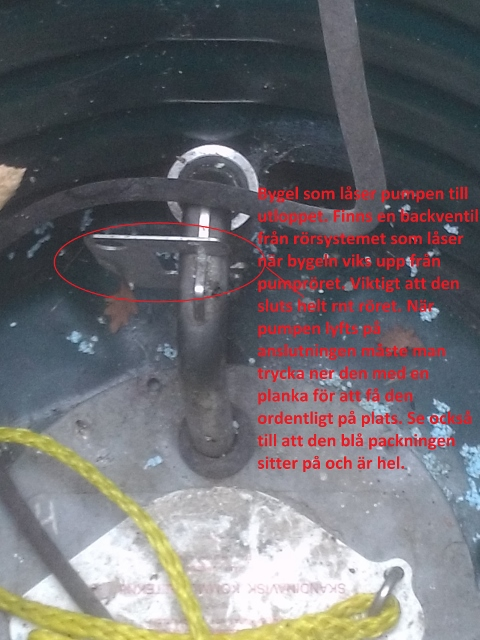
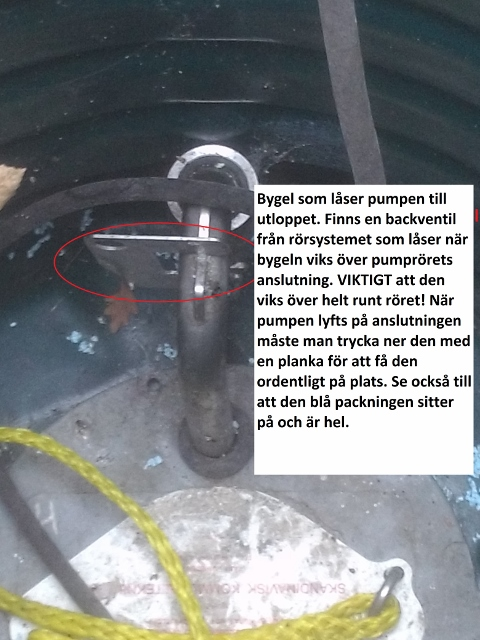
16

Changed region(s): [[0.5312, 0.2812, 1.0, 0.75]]

diff --git a/pages/Maint/Paint.html b/pages/Maint/Paint.html
@@ -5,24 +5,125 @@
         <title>Målarfärg till husen</title>
     </head>
     <body>
-        <h2>Färg</h2>
-        <h3>Gamla huset</h3>
-            <dl>
-                <dt>Fasad</dt>
-                    <dd>Svart lasyr, Nordsjö Tinova V+</dd>
-                    <dd>Billigare i Åtvidaberg än Linköping</dd>
-                <dt>Fönster och snickerier</dt>
-                    <dd>...</dd>
-                <dt>Vägg kök</dt>
-                    <dd></dd>
-                <dt>Golv kök</dt>
-                    <dd>Ska målas om. Förslut kvistarna med lack denna gång</dd>
-                    <dd></dd>
-                <dt>Övervåning</dt>
-                    <dd>Tak och väggar förmodligen oljefärg. Målat slutet 70-talet</dd>
-                <dt>Golv matsal</dt>
-                    <dd>Slipat, betsat och lackat i början av 2000-talet.</dd>
-           </dl>
-        
+        <h2>Färg</h2>    
+        <table border="1">
+            <thead>
+                <tr>
+                    <th colspan=5>Gamla huset</th>
+                </tr>
+                <tr>
+                    <th>Detalj</h>
+                    <th>Typ och färg</th>
+                    <th>Behandling</th>
+                    <th>Fabrikat</th>
+                    <th>Inköpsställe</th>
+                </tr>
+            </thead>
+            <tbody>
+                <tr>
+                    <td>Fasad</td>
+                    <td>Svart lasyr</td>
+                    <td></td>
+                    <td>Nordsjö Tinova V+</td>
+                    <td>Billigare i Åtvidaberg än Linköping</td>
+                </tr>
+                <tr>
+                    <td>Fönster och snickerier</td>
+                    <td></td>
+                    <td></td>
+                    <td></td>
+                    <td></td>
+                </tr>
+                <tr>
+                    <td>Vägg kök</td>
+                    <td></td>
+                    <td></td>
+                    <td></td>
+                    <td></td>
+                </tr>
+                <tr>
+                    <td>Golv kök</td>
+                    <td colspan=4>Ska målas om. Förslut kvistarna med lack denna gång</td>
+                </tr>
+                <tr>
+                    <td>Övervåning</td>
+                    <td colspan=4>Tak och väggar förmodligen oljefärg. Målat slutet 70-talet</td>
+                </tr>
+                <tr>
+                    <td>Golv matsal</td>
+                    <td colspan=4>Slipat, mörkbetsat och lackat i början av 2000-talet</td>
+ <!--                   <td></td>
+                    <td></td>
+-->                    
+                </tr>
+<!--                <tr>
+                    <td></td>
+                    <td></td>
+                    <td></td>
+                    <td></td>
+                </tr>
+-->                
+            </tbody>
+            <tfooter>
+                <tr>
+
+                </tr>
+            </tfooter>
+        </table>
+        <table border="1">
+            <thead>
+                <tr>
+                    <th colspan=5>Nya huset</th>
+                </tr>
+                <tr>
+                    <th>Detalj</h>
+                    <th>Typ och färg</th>
+                    <th>Behandling</th>
+                    <th>Fabrikat</th>
+                    <th>Inköpsställe</th>
+                </tr>
+            </thead>
+            <tbody>
+                <tr>
+                    <td>Fasad</td>
+                    <td>Svart lasyr</td>
+                    <td></td>
+                    <td>Nordsjö Tinova V+</td>
+                    <td>Billigare i Åtvidaberg än Linköping</td>
+                </tr>
+                <tr>
+                    <td>Fönster och snickerier</td>
+                    <td></td>
+                    <td></td>
+                    <td></td>
+                    <td></td>
+                </tr>
+                <tr>
+                    <td>Väggar</td>
+                    <td></td>
+                    <td></td>
+                    <td></td>
+                    <td></td>
+                </tr>
+                <tr>
+                    <td>Golv sovrum</td>
+                    <td>Lutat trägolv</td>
+                    <td>Behandlas med vitolja. Rengörs med vitsåpa</td>
+                    <td></td>
+                    <td></td>
+                </tr>
+                <tr>
+                    <td>Golv hall</td>
+                    <td>Kalksten från Borghamn</td>
+                    <td>Mättas med stensåpa. Torkas av med vatten, absolut inte vanlig såpa</td>
+                    <td></td>
+                    <td></td>
+            </tbody>
+            <tfooter>
+                <tr>
+
+                </tr>
+            </tfooter>
+        </table>
     </body>
 </html>

diff --git a/pages/Maint/Checklist_Spring.html b/pages/Maint/Checklist_Spring.html
@@ -13,6 +13,9 @@
                     <li></li>
                 </ol>
             <dt>Avlopp</dt>
+            <ol>
+                <li>Öppna locket till pumpbrunnen och tittat att allt ser bra ut</li>
+                <li>Kontrollera att <a href="../../pics/Pumpbygel.jpg">pumpbygeln</a> är aktiverad helt.Bygeln låser pumpen till utloppet. Finns en backventil från rörsystemet som låser när bygeln viks över pumprörets anslutning. VIKTIGT att den viks över helt runt röret! När pumpen lyfts på anslutningen måste man trycka ner den med en planka för att få den ordentligt på plats. Se också till att den blå packningen sitter på och är hel. </li>
         </dl>
     </body>
 </html>

diff --git a/index.html b/index.html
@@ -1,0 +1,20 @@
+<!doctype html>
+<html lang="sv">
+    <head>
+        <meta charset="utf-8" />
+        <title>Manual för skötsel av sommarstugan i Bestorp</title>
+    </head>
+    <body>
+    <h1>Sommarhuset Norrängen, Bestorp</h1>
+    <img src="pics/GH.jpg" alt="Gamla huset"> <a id="BildGH"></a>
+
+        <ul>
+            <li>Historia</li>
+            <li>Husen</li>
+            <li>Bilder</li>
+            <li><a href="pages/Maint/Maintenance.html">Skötsel och underhåll</a></li>
+            <li></li>
+        </ul>
+        
+    </body>
+</html>
